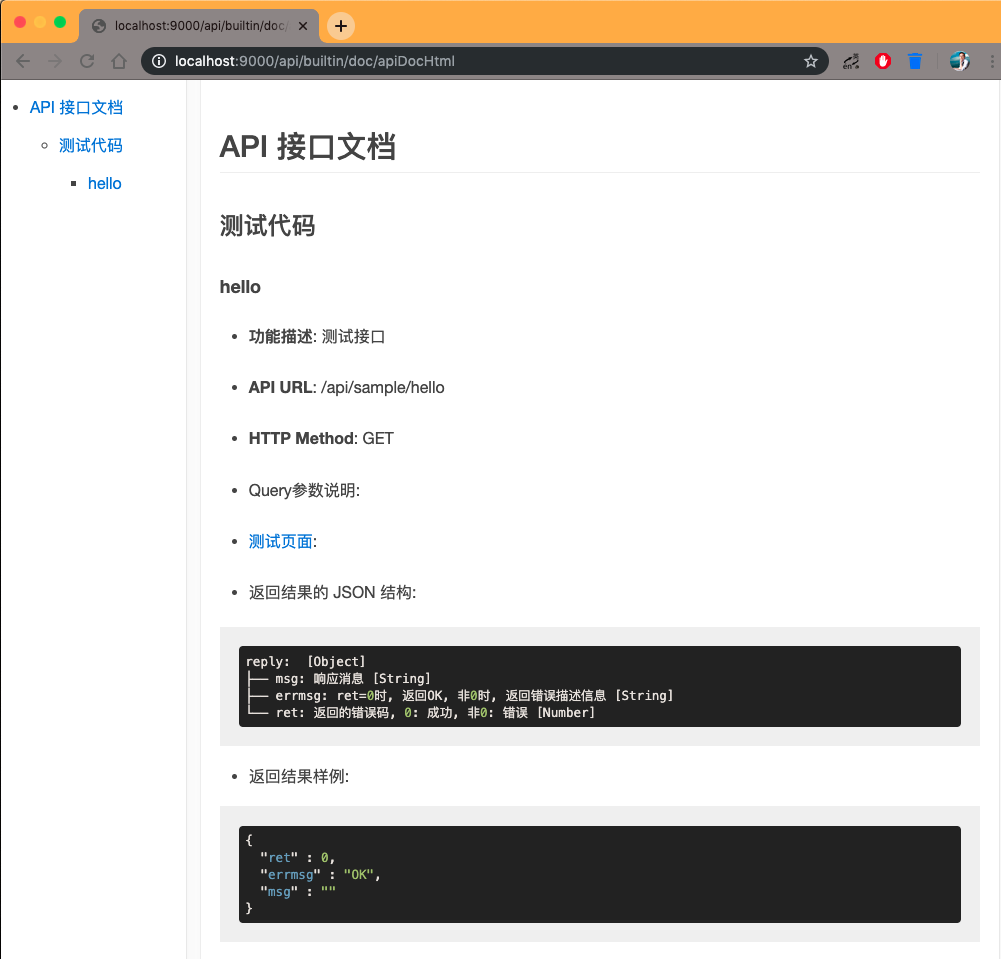
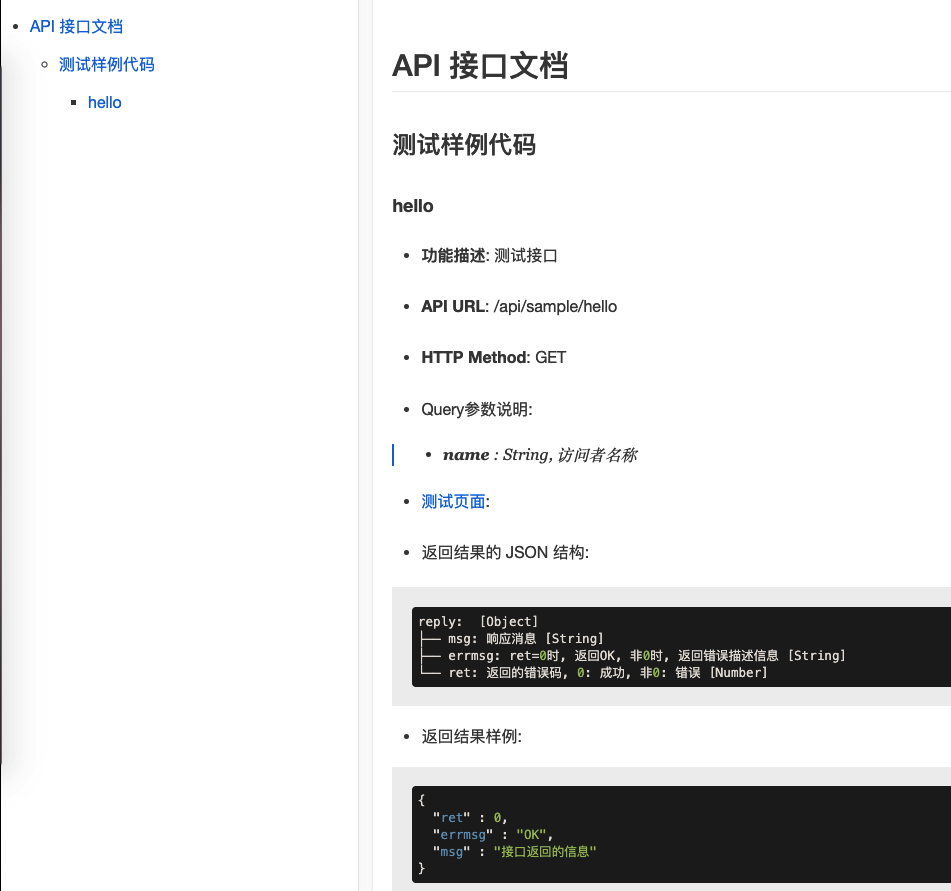
update site

diff --git a/index.html b/index.html
@@ -14,6 +14,36 @@
   <script src="//cdn.jsdelivr.net/npm/mermaid/dist/mermaid.min.js"></script>
 </head>
 
+<style type="text/css">
+
+  .app-sub-sidebar {
+    width: 160px;
+    position: fixed;
+    top: 100px;
+    right: 50px;
+    background: #fff;
+    font-size: xx-small;
+  }
+
+  .app-sub-sidebar::before {
+    position: absolute;
+    top: -35px;
+    left: 0;
+    width: 100%;
+    display: block;
+    margin-left: 15px;
+    content: '本文目录';
+    font-weight: bold;
+    font-size: xx-small;
+  }
+
+  .app-sub-sidebar li.active {
+    box-shadow: inset 8px -4px 0px -4px #52abff;
+    background-color: #fff;
+    font-size: xx-small;
+  }
+</style>
+
 <body>
   <div id="app"></div>
   <script>
@@ -24,7 +54,13 @@
       name: 'IT写轮眼',
       repo: 'https://github.com/LoveInShenZhen/sz-vertx-kotlin',
       loadSidebar: true,
-      subMaxLevel: 5,
+      alias: {
+        '/.*/_sidebar.md': '/_sidebar.md'
+      },
+      // autoHeader: true,
+      // maxLevel: 1,
+      subMaxLevel: 3,
+      auto2top: true,
       plantuml: {
         skin: 'classic',
         serverPath: 'http://149.129.84.37:8080/svg/'
@@ -56,10 +92,11 @@
   </script>
   <!-- CDN files for docsify-katex -->
   <script src="//cdn.jsdelivr.net/npm/docsify-katex@latest/dist/docsify-katex.js"></script>
-  <link rel="stylesheet" href="//cdn.jsdelivr.net/npm/katex@latest/dist/katex.min.css"/>
+  <link rel="stylesheet" href="//cdn.jsdelivr.net/npm/katex@latest/dist/katex.min.css" />
 
 
-  <script src="//unpkg.com/docsify/lib/docsify.min.js"></script>
+  <!-- <script src="//unpkg.com/docsify/lib/docsify.min.js"></script> -->
+  <script src="https://doc.open-uc.cn/lib/docsify.js"></script>
   <!-- 全文搜索 - Search -->
   <script src="//unpkg.com/docsify/lib/plugins/search.js"></script>
   <!-- 在所有的代码块上添加一个简单的Click to copy按钮来允许用户从你的文档中轻易地复制代码 -->

diff --git a/sz_framework/quick_start/new_api.md b/sz_framework/quick_start/new_api.md
@@ -1,0 +1,199 @@
+## 概述
+
+我们会新增几个API接口, 下文会记录整个过程.
+
+---
+
+### TASK: _新增接口,用于查询内存使用情况_
+* 在 com.api.server.controller 包下新建一个 package, 名称为: sysinfo
+* 在包 **com.api.server.controller.sysinfo** 下, 新建一个controller class: **SysInfo**
+* 所有的控制器类都是从 **sz.scaffold.controller.ApiController** 继承下来的子类
+* 如下所示, 在控制器类和方法的定义上面, 添加标注 **@Comment("注释说明")**, 系统会根据这些 **@Comment** 自动生成 API接口文档 和 API测试页面
+
+```kotlin
+package com.api.server.controller.sysinfo
+
+import sz.scaffold.annotations.Comment
+import sz.scaffold.controller.ApiController
+
+
+@Comment("查询系统信息")
+class SysInfo : ApiController() {
+    // todo: 等待添加控制器方法
+}
+```
+
+* 通常, 我们会在控制器所在的包下面, 创建一个叫做 **reply** 的包, 控制器方法返回的 reply 的class会在 **reply** 的包下面定义. 这个只是编码习惯, 非强制性.
+* 定义查询内存使用情况这个方法所需要返回的reply类
+> * 先定义用来描述内存使用信息的一个**数据类**: _MemoryUsageInfo_
+> * 在字段的定义上, 添加 **@Comment** 标注, 填上描述该字段的注释. 用来自动生成 API接口文档
+
+```kotlin
+package com.api.server.controller.sysinfo.reply
+
+import sz.scaffold.annotations.Comment
+import java.lang.management.MemoryUsage
+
+class MemoryUsageInfo {
+
+    @Comment("JVM分配的初始内存量；或者，如果未定义，则为 -1 (单位:MB)")
+    var init_memory: Long = -1
+
+    @Comment("可以使用的最大内存量；或者，如果未定义，则为 -1 (单位:MB)")
+    var max_memory: Long = -1
+
+    @Comment("表示JVM当前已经使用的内存量 (单位:MB)")
+    var used_memory: Long = 0
+
+    @Comment("已经提交的内存量 (单位:MB)")
+    var committed: Long = 0
+
+    fun loadFrom(usage: MemoryUsage): MemoryUsageInfo {
+        init_memory = convertToMB(usage.init)
+        max_memory = convertToMB(usage.max)
+        used_memory = convertToMB(usage.used)
+        committed  = convertToMB(usage.committed)
+        return this
+    }
+
+    private fun convertToMB(size: Long): Long {
+        if (size < 0) {
+            return size
+        } else {
+            return size / 1024 / 1024
+        }
+    }
+}
+```
+
+> * 定义对应的 **Reply类**:  _MemoryUsageReply_
+> * 所有的 **Reply类** 都是从 **sz.scaffold.controller.reply.ReplyBase** 继承下来
+
+```kotlin
+package com.api.server.controller.sysinfo.replys
+
+import sz.scaffold.annotations.Comment
+import sz.scaffold.controller.reply.ReplyBase
+import java.lang.management.ManagementFactory
+
+
+class MemoryUsageReply : ReplyBase() {
+
+    @Comment("堆内存使用情况")
+    var heapUsage = MemoryUsageInfo()
+
+    @Comment("非堆内存使用情况")
+    var nonHeapUsage = MemoryUsageInfo()
+
+    fun load() {
+        val mxBean = ManagementFactory.getMemoryMXBean()
+        heapUsage.loadFrom(mxBean.heapMemoryUsage)
+        nonHeapUsage.loadFrom(mxBean.nonHeapMemoryUsage)
+    }
+
+    override fun SampleData() {
+        this.load()
+    }
+}
+```
+
+* 定义控制器类**SysInfo**里添加控制器方法: **fun memUsage() : MemoryUsageReply**
+
+```kotlin
+package com.api.server.controller.sysinfo
+
+import com.api.server.controller.sysinfo.reply.EnvironmentReply
+import com.api.server.controller.sysinfo.reply.MemoryUsageReply
+import com.api.server.controller.sysinfo.reply.PropertiesReply
+import sz.scaffold.annotations.Comment
+import sz.scaffold.controller.ApiController
+
+
+@Comment("查询系统信息")
+class SysInfo : ApiController() {
+
+    @Comment("查询系统当前的内存使用情况")
+    fun memUsage() : MemoryUsageReply {
+        val reply = MemoryUsageReply()
+        reply.load()
+        return reply
+    }
+}
+```
+
+* 设置控制器方法 **fun memUsage()** 对应的路由
+> * 打开路由配置文: **conf/route**, 添加一条路由
+> * 路由设置分成3个部分, 从左到右, 中间用**空格**或者**tab**隔开, 依次是:
+> * * Http Method: 可以是 **GET**,**POST**,**HEAD**, (注:大写)
+> * * Http Path: http url中的path路径
+> * * 控制器类的全名 + 控制器方铭名称, 用 "**.**" 连接起来
+```
+GET     /api/v1/sysinfo/memUsage        com.api.server.controller.sysinfo.SysInfo.memUsage
+```
+
+* 编译构建
+
+```
+# 进入到工程目录
+cd Hello
+# 构建项目, gradle自动下载依赖项
+gradle build
+# 运行项目
+gradle run
+```
+
+> ![gradle run方式运行](../../img/gradle_run.png)
+
+* 打开api列表页面 [http://localhost:9000/api/builtin/doc/apiIndex](http://localhost:9000/api/builtin/doc/apiIndex)
+
+> ![api列表](../../img/quick_start_api_index.png)
+
+* 打开 **memUsage** 的接口测试页面, 点击 **测试** 按钮进行测试
+
+> ![memUsage测试页面](../../img/quick_start_memUsage.png)
+
+* 打开api接口文档页面 [http://localhost:9000/api/builtin/doc/apiDocHtml](http://localhost:9000/api/builtin/doc/apiDocHtml)
+
+> ![api接口文档页面](../../img/quick_start_api_doc.png)
+
+* 可以看到, **sz框架** 已经根据 **@Comment** 标注的信息, 自动帮我们生成了对应的api接口文档和api测试页面
+
+---
+## 完整样例代码
+与上面的操作类似, 在 SysInfo 控制器类里, 继续新增了2个api接口方法
+
+```kotlin
+    @Comment("查询系统当前运行环境下的环境变量")
+    fun environments() : EnvironmentReply {
+        val reply = EnvironmentReply()
+        reply.load()
+
+        return reply
+    }
+
+    @Comment("查询系统当前运行环境下的属性列表")
+    fun sysProperties() : PropertiesReply {
+        val reply = PropertiesReply()
+        reply.load()
+        return reply
+    }
+```
+
+* 完整代码请移步: [https://github.com/LoveInShenZhen/ProjectTemplates/tree/master/samples/QuickStart](https://github.com/LoveInShenZhen/ProjectTemplates/tree/master/samples/QuickStart)
+
+```bash
+# 下载代码请执行如下命令
+svn export https://github.com/LoveInShenZhen/ProjectTemplates.git/trunk/samples/QuickStart QuickStart
+```
+
+---
+## 小结一下开发流程
+1. 需求分析, 拆分成若干个API功能接口
+1. 确定每个API接口的输入参数是什么, 输出的JSON结构是什么
+1. 根据输出的JSON结构层次, 定义对应的Reply类, 为每个字段添加 **@Comment** 注释信息
+1. 选择已有的控制器类,或者新建一个控制器类 (注: 同一类相关业务逻辑功能的api接口, 一般都放在同一个控制器类里)
+1. 定义api接口的控制器方法, 在方法上添加 **@Comment** 注释信息
+1. 在api接口的控制器方法的参数列表里, 为每一个参数添加 **@Comment** 注释信息
+1. 实现api接口方法的业务逻辑功能, 编码测试
+1. 部署到测试服务器, 提交给前端开发人员.(前端开发人员可以实时查看测试服务器上最新的在线文档和在线测试页面)
+

diff --git a/sz_framework/json_api_spec.md b/sz_framework/json_api_spec.md
@@ -1,0 +1,45 @@
+## sz-json api 规范 
+---
+* SZ 是一套基于 **前后端分离** 的思想, 专门用于 后端 (业务,应用服务器)的 快速开发框架.
+* 前端静态HTML页面是通过 **ajax** 的方式, 调用后端提供的 **http api** 接口
+* sz 框架定义了一套 **http json api** 的规范
+
+### Request-Response 形式
+* **Http Request**, 支持 **GET**, **POST**, **HEAD** 这三种方式
+* Response 返回一个Json文本
+* Response 的 **Content-Type** : **application/json; charset=utf-8**
+* Response 的 **transfer-encoding** : **chunked**
+
+### Response 的 Json 格式
+* 所有的Response都包括如下的2个基础字段:
+```json
+{
+    "ret": 0,
+    "errmsg": "OK",
+}
+```
+
+> - **ret** : 0 表示成功, 其他值表示错误码, 由开发人员自己定义. 
+> - **errmsg** : 当ret=0时, 返回OK, 非0时, 返回错误描述信息. 例如: token超时; 违背某某业务规则; 某某参数为空 等等
+> - 这2个基础字段, 是从 **ReplyBase** 类继承而来的. 
+> - web前端程序, 需要对调用返回的 **ret** 值进行判断, 进行相应的错误处理
+
+
+### **UTF-8** 字符编码
+* Request 和 Response 的字符编码要求是: charset=utf-8
+
+### GET 方式
+
+?> _TODO_
+
+### POST Form 方式
+
+?> _TODO_
+
+### POST Json 方式
+
+?> _TODO_
+
+### HEAD 方式
+
+### 参考

diff --git a/sz_framework/quick_start/create_new_prj.md b/sz_framework/quick_start/create_new_prj.md
@@ -1,6 +1,6 @@
 # 新建项目 
 ---
-
+    
 ## 安装构建依赖
 * 安装好 **subversion**, 获取项目工程模板时会用到
 * 安装好 **JDK 8**
@@ -86,8 +86,8 @@ gradle run
 * API接口文档列表页面
 > ![API接口文档列表页面](../../img/apiIndex_page.png)
 
-* API接口测试页面
-> ![API接口测试页面](../../img/api_test_page.png)
+* API接口测试页面, 填入参数, 点击**测试**按钮
+> ![API接口测试页面](../../img/api_sample_hello.png)
 
 ## 查看自动生成的API接口文档
 * 点击 [http://localhost:9000/api/builtin/doc/apiDocHtml](http://localhost:9000/api/builtin/doc/apiDocHtml) 查看自动生成的API接口文档

diff --git a/_sidebar.md b/_sidebar.md
@@ -1,5 +1,7 @@
 * [sz 后端开发框架](/sz_framework/introduction.md)
-    * [简介](/sz_framework/introduction.md)
-    * [快速入门](/sz_framework/quick_start/create_new_prj.md)
-        * [新建项目](/sz_framework/quick_start/create_new_prj.md)
-    * [前后端分离](/sz_framework/front_and_backend.md)
+  * [简介](/sz_framework/introduction.md)
+  * [快速入门](/sz_framework/quick_start/)
+    * [新建项目](/sz_framework/quick_start/create_new_prj.md)
+    * [新增API](/sz_framework/quick_start/new_api.md)
+    * [sz-json api 规范](/sz_framework/json_api_spec.md)
+  * [前后端分离](/sz_framework/front_and_backend.md)

diff --git a/sz_framework/quick_start/README.md b/sz_framework/quick_start/README.md
@@ -1,0 +1,2 @@
+在 **快速入门** 的章节里, 我们从无到有创建一个小的应用, 帮助大家快速掌握 **sz** 框架的使用方法.
+涉及到的若干要点, 会分别独立章节进行细述.
